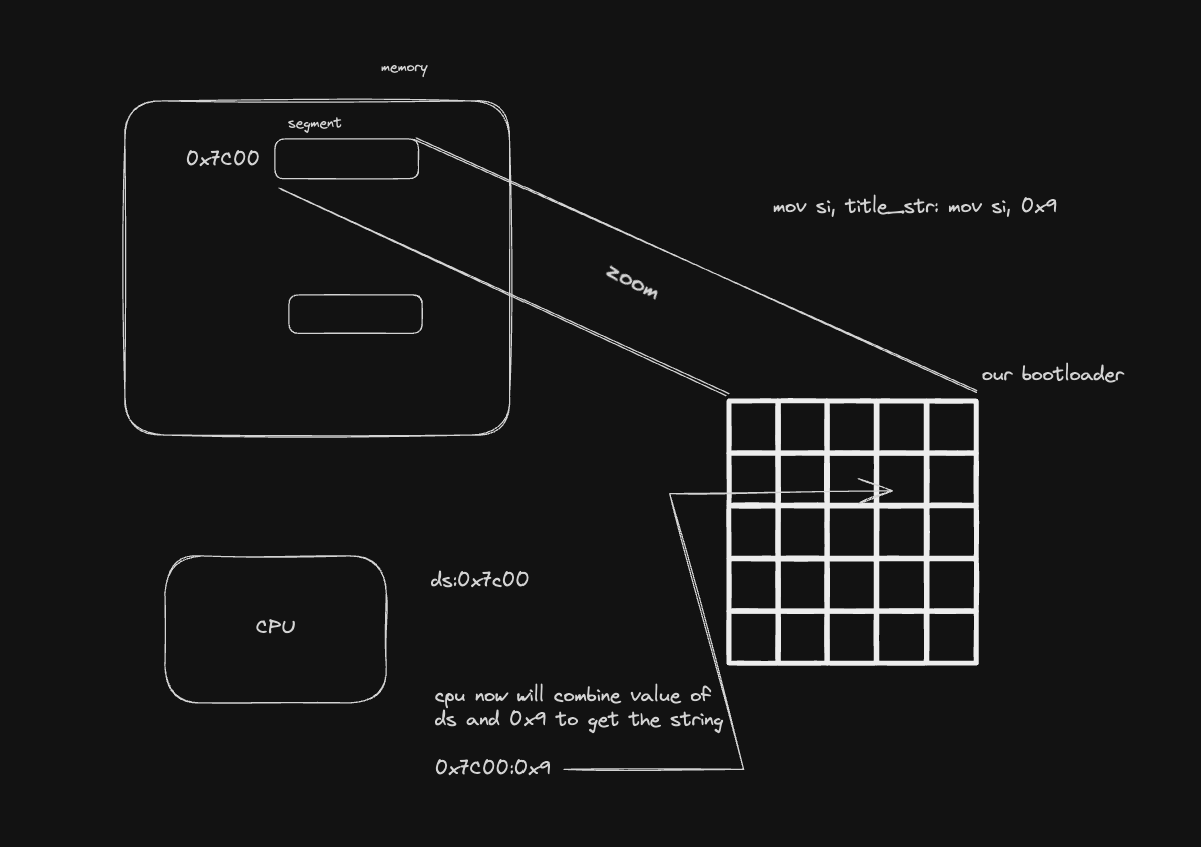
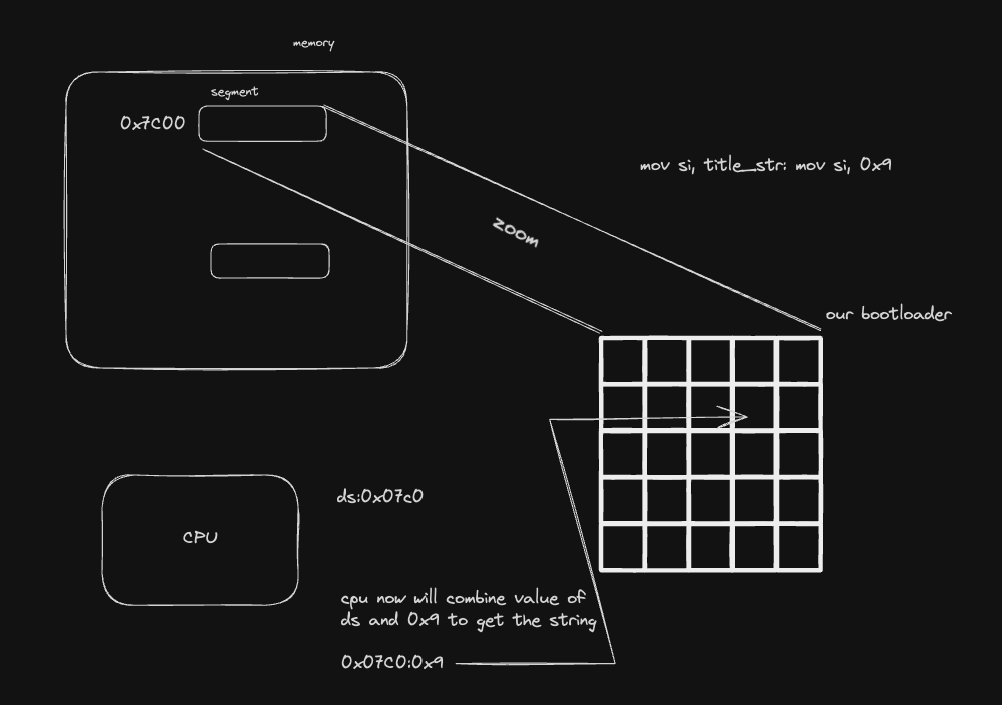
explain print function

diff --git a/part-1/README.md b/part-1/README.md
@@ -78,15 +78,86 @@ x86 architecture supports different operating modes that determine the processor
 
 
 ##### Source Code Explained
+###### Part 1
 you maybe wondering why is [this](#set-data-segment) well that because x86 [real mode](#real-mode) memory segmentation wait what [memory segmentation](#memory-segmentation-in-real-mode) so when our programme is going to try access data like some string to print cpu will consult with ds register to find it that's why we set it
 
 ![](./pics/set_data_segment_1.png)
 ![](./pics/set_data_segment_2.png)
 ![](./pics/set_data_segment_3.png)
 
-so if ds=0 cpu will try access 0d:0x9 which has nothing to do with what we are trying to do
+so if ds=0 cpu will try access 0d:0x9 which has nothing to do with what we are trying to do,
+but why not
+
+```s
+mov ax, 0x7c00
+mov ds, ax
+```
+
+didn't you say that our code is loaded at 0x7c00 well yes but the true value that should be in ds is 0x07c0 why ? well
+that has to do with how the cpu uses the value in `ds` well first it shifts by 4 or multiply by 16, and then add the offset, for example access to that `title_str` will be like 
+this ds * 16 + offset = 0x7c00+offset that is why!
+
+![](./pics/set_data_segment_4.png)
+
+###### Part 2
+let's see this <a href="#print_function_1">part</a> why move `0x0e` into `ah` register will I'm going to use BIOS to print something to the screen, well here's link to all [BIOS services](https://en.wikipedia.org/wiki/BIOS_interrupt_call#:~:text=BIOS%20interrupt%20calls%20can%20be,requested%20action%20to%20the%20caller.)
+actually the value `0x0e` in itself is meaningless unless we take look at the other lines `int 0x10` well now it's good because now we are saying that we are interested in `video services` and I'm going to use `Write Character in TTY Mode`
+so this combo
+
+```s
+mov ah, 0x0e
+int 0x10
+```
+
+is saying that we want to print something to the screen, but what are we going to print well we put the value that we want to print into the register `al` and in our case `lodsb` is the one responsible, with this knowledge you should understand `.print_char` label, now let's move on to the part of `.print_done`
+
+details of <a href='#print_function_2_1'>`.print_done`</a>
+again if we take look at that table in the website that I gave you before you will see this
+
+![](./pics/print_1.png)
+
+okay that explains this part
+
+```s
+mov ah, 0x03
+int 0x10
+```
+okay what is the effect of this call? well it will change `cx` and `dx`
+
+- CX: It holds the cursor's column position.
+- DX: It holds the cursor's row position.
+
+so that's why this part
+<a href='#print_function_2_2'>exist</a>
+```s
+mov bh, 0
+```
+but what about that `mov bh, 0` well there's something called pages that I don't care about it for now in BIOS, somehow divides the screen into pages, and I don't want the other instructions to be applied to something else, so this is just defensive move here!!! 
 
 ##### Source Code Parts
+
+###### Print function
+
+<span id="print_function_1"></span>
+```s
+mov ah, 0x0e
+...
+```
+
+<span id="print_function_2_1"></span>
+```s
+mov ah, 0x3
+int 0x10
+```
+
+<span id="print_function_2_2"></span>
+```s
+mov ah, 0x2
+mov dl, 0x0
+mov bh, 0
+int 0x10
+```
+
 
 ###### signature 
 ```asm
@@ -96,6 +167,6 @@ dw 0xaa55
 
 ###### set data segment
 ```asm
-mov ax, 0x7c00
+mov ax, 0x07c0
 mov ds, ax
 ```
